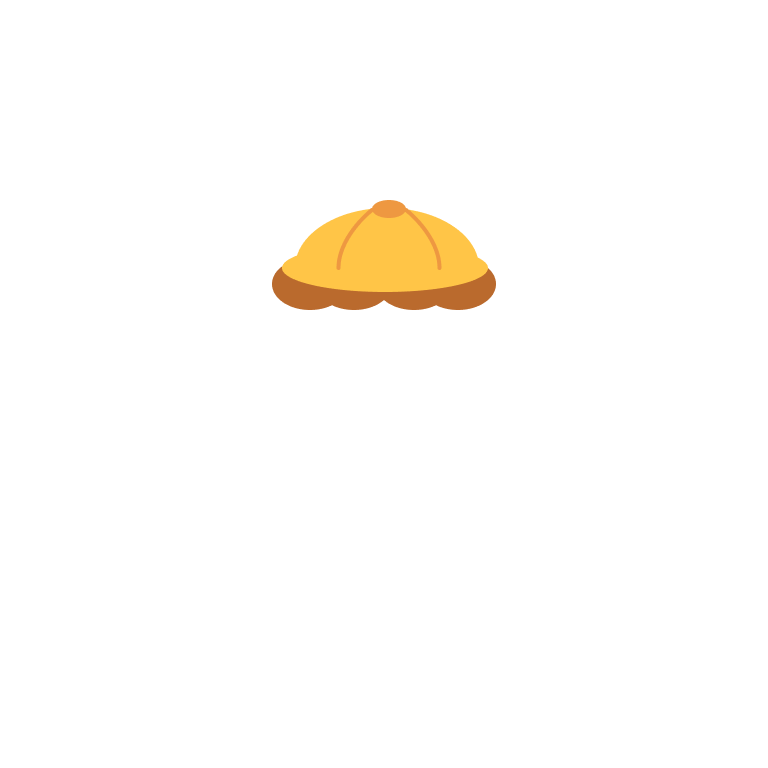
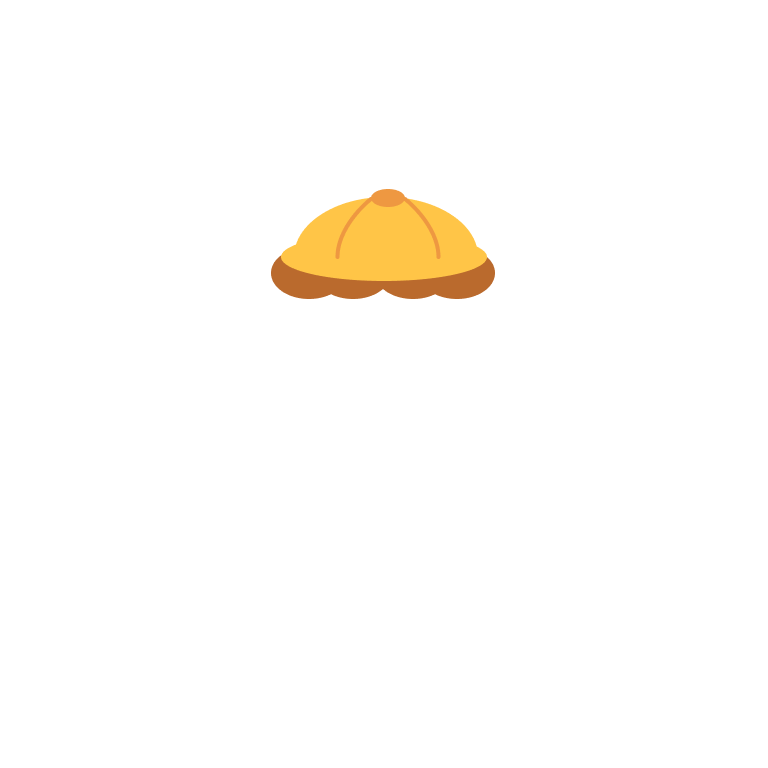
상점 옷·악세서리 PNG를 완성형 스킨 위치에 맞춤
수작업 배치로 어긋난 부품 11개를 원본 완성형 스킨 SVG와 템플릿 매칭해
정수 픽셀만큼 이동했다. 스킨(몸) 위치는 바꾸지 않았다.
scripts/align_shop_layers.py로 이동량 측정·적용·미리보기를 할 수 있다.

Changed region(s): [[0.3438, 0.25, 0.6562, 0.4062]]

diff --git a/scripts/align_shop_layers.py b/scripts/align_shop_layers.py
@@ -1,0 +1,147 @@
+"""상점 옷·악세서리 PNG를 원본 완성형 스킨 위치에 맞춘다.
+
+각 부품은 design/shop-svg에서 정렬한 완성형 스킨에서 잘라낸 그림이다.
+완성형 스킨 SVG를 768×768로 그린 뒤 부품 PNG를 같은 자리로 옮기는
+정수 픽셀 이동량을 템플릿 매칭으로 찾는다. 모든 햄핀 스킨은 눈 위치가 같아
+완성형 스킨 좌표가 곧 기본 몸 좌표다.
+
+    python scripts/align_shop_layers.py           # 이동량만 출력
+    python scripts/align_shop_layers.py --apply   # PNG를 이동해 덮어쓰기
+    python scripts/align_shop_layers.py --sheet out.png  # 기본 몸 착용 미리보기
+
+필요 패키지: pillow, numpy, resvg-py
+"""
+
+import argparse
+import io
+import sys
+from pathlib import Path
+
+import numpy as np
+import resvg_py
+from PIL import Image, ImageDraw
+
+ROOT = Path(__file__).resolve().parent.parent
+PARTS = ROOT / 'assets/figma/shop/accessories'
+SKINS = ROOT / 'assets/figma/shop/skins'
+SIZE = 768
+SEARCH = 14
+# 머리 장식과 옷이 한 파일에 있으면 이 y를 기준으로 나눠 따로 맞춘다.
+SPLIT_Y = 420
+WHOLE, HEAD, BODY = (0, SIZE), (0, SPLIT_Y), (SPLIT_Y, SIZE)
+
+# 부품 → (기준 완성형 스킨, 맞출 영역들). 지니 옷·수염은 완성형과 그림이
+# 달라 매칭하지 않는다.
+TARGETS = {
+    'clothing_ninja': ('skin_ninja', [WHOLE]),
+    'accessory_ninja': ('skin_ninja', [WHOLE]),
+    'clothing_kindergarten': ('skin_kindergarten', [WHOLE]),
+    'accessory_kindergarten_hat': ('skin_kindergarten', [WHOLE]),
+    'accessory_kindergarten_hair': ('skin_kindergarten', [HEAD, BODY]),
+    'accessory_kindergarten': ('skin_kindergarten', [HEAD, BODY]),
+    'accessory_genie_hair': ('skin_genie', [HEAD]),
+    'accessory_genie_set': ('skin_genie', [HEAD]),
+    'accessory_perm': ('skin_perm', [WHOLE]),
+    'accessory_grandma': ('skin_grandma', [WHOLE]),
+    'accessory_tie': ('skin_business', [WHOLE]),
+}
+
+
+def render_skin(name):
+    png = resvg_py.svg_to_bytes(
+        svg_path=str(SKINS / f'{name}.svg'), width=SIZE, height=SIZE)
+    return np.asarray(Image.open(io.BytesIO(bytes(png))).convert('RGBA'))
+
+
+def shift(a, dx, dy):
+    out = np.zeros_like(a)
+    h, w = a.shape[:2]
+    out[max(dy, 0):h + min(dy, 0), max(dx, 0):w + min(dx, 0)] = \
+        a[max(-dy, 0):h + min(-dy, 0), max(-dx, 0):w + min(-dx, 0)]
+    return out
+
+
+def best_offset(part, ref):
+    """부품의 불투명 픽셀이 기준 스킨 색과 가장 비슷해지는 (dx, dy)."""
+    alpha = part[..., 3] > 200
+    if alpha.sum() < 50:
+        return 0, 0, 0.0, 0.0
+    ys, xs = np.nonzero(alpha)
+    y0, y1 = max(ys.min() - SEARCH, 0), min(ys.max() + SEARCH + 1, SIZE)
+    x0, x1 = max(xs.min() - SEARCH, 0), min(xs.max() + SEARCH + 1, SIZE)
+    p = part[y0:y1, x0:x1].astype(np.float32)
+    r = ref[y0:y1, x0:x1].astype(np.float32)
+
+    def error(dx, dy):
+        moved = shift(p, dx, dy)
+        mask = moved[..., 3] > 200
+        color = np.abs(moved[..., :3][mask] - r[..., :3][mask]).mean()
+        uncovered = (r[..., 3][mask] < 200).mean() * 255
+        return color + uncovered
+
+    err, dx, dy = min(
+        (error(dx, dy), dx, dy)
+        for dy in range(-SEARCH, SEARCH + 1)
+        for dx in range(-SEARCH, SEARCH + 1))
+    return dx, dy, error(0, 0), err
+
+
+def region(img, rows):
+    out = np.zeros_like(img)
+    out[rows[0]:rows[1]] = img[rows[0]:rows[1]]
+    return out
+
+
+def align(apply):
+    refs = {}
+    for name, (skin, regions) in TARGETS.items():
+        path = PARTS / f'{name}.png'
+        part = np.asarray(Image.open(path).convert('RGBA'))
+        if part.shape[:2] != (SIZE, SIZE):
+            sys.exit(f'{path.name}: {part.shape[1]}x{part.shape[0]}, expected {SIZE}x{SIZE}')
+        ref = refs.setdefault(skin, render_skin(skin))
+        result = part.copy()
+        moved = False
+        for rows in regions:
+            piece = region(part, rows)
+            dx, dy, before, after = best_offset(piece, ref)
+            label = {WHOLE: 'all', HEAD: 'head', BODY: 'body'}[rows]
+            print(f'{name:28s} {label:4s} dx={dx:+3d} dy={dy:+3d}  '
+                  f'error {before:5.1f} -> {after:5.1f}')
+            if dx or dy:
+                moved = True
+                result[rows[0]:rows[1]] = 0
+                # 아래 영역이 위로 올라오는 경우를 위해 이동한 조각은 합성한다.
+                layer = Image.fromarray(result)
+                layer.alpha_composite(Image.fromarray(shift(piece, dx, dy)))
+                result = np.asarray(layer).copy()
+        if apply and moved:
+            Image.fromarray(result).save(path, optimize=True)
+
+
+def sheet(out):
+    body = Image.fromarray(render_skin('skin_default'))
+    names = sorted(p.stem for p in PARTS.glob('*.png'))
+    cols, tw, th = 5, 260, 300
+    rows = (len(names) + cols - 1) // cols
+    canvas = Image.new('RGB', (cols * tw, rows * th), 'white')
+    draw = ImageDraw.Draw(canvas)
+    for i, name in enumerate(names):
+        im = Image.new('RGBA', (SIZE, SIZE), (255, 255, 255, 255))
+        im.alpha_composite(body)
+        im.alpha_composite(Image.open(PARTS / f'{name}.png').convert('RGBA'))
+        x, y = (i % cols) * tw, (i // cols) * th
+        canvas.paste(im.crop((190, 150, 580, 600)).resize((tw, th)), (x, y))
+        draw.text((x + 4, y + 4), name, fill='black')
+    canvas.save(out)
+
+
+if __name__ == '__main__':
+    parser = argparse.ArgumentParser()
+    parser.add_argument('--apply', action='store_true')
+    parser.add_argument('--sheet')
+    args = parser.parse_args()
+    if args.sheet:
+        sheet(args.sheet)
+    else:
+        align(args.apply)

diff --git a/docs/shop-assets-and-catalog.md b/docs/shop-assets-and-catalog.md
@@ -48,6 +48,9 @@ Functions 배포가 필요하다. 유저의 씨앗·보유·착용 데이터는 
 firestore.rules와 firestore.rules.production의 shopItems 클라이언트 접근은 차단한다.
 실제 DB의 테스트 상품 문서 삭제와 규칙 배포는 아직 실행하지 않았다.
 몸과 부품은 동일한 384×384 좌표계의 asset으로 관리한다.
+부품 PNG는 768×768(2배)이며 `python scripts/align_shop_layers.py`가 원본 완성형 스킨과
+비교한 이동량을 출력한다. 새 부품을 추가하면 `TARGETS`에 등록하고 `--apply`로 맞춘 뒤
+`--sheet <png>`로 기본 몸 착용 모습을 확인한다.
 
 ## 검증과 화면 캡처
 
